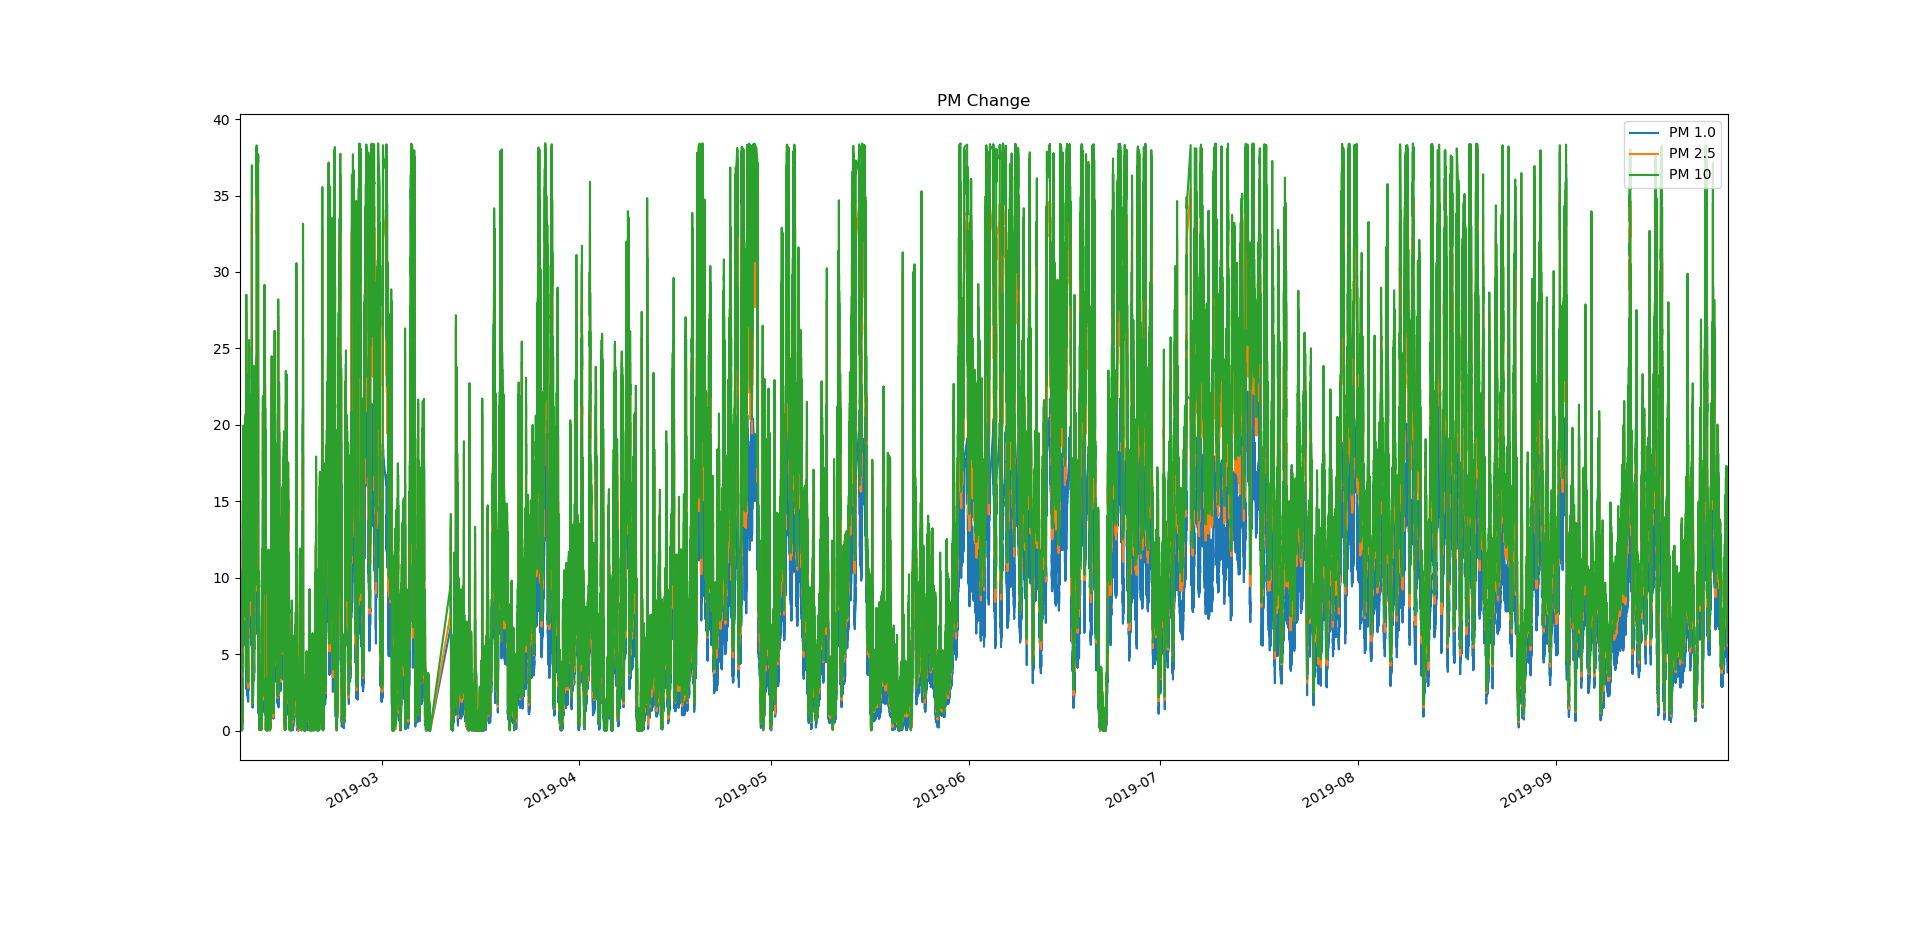
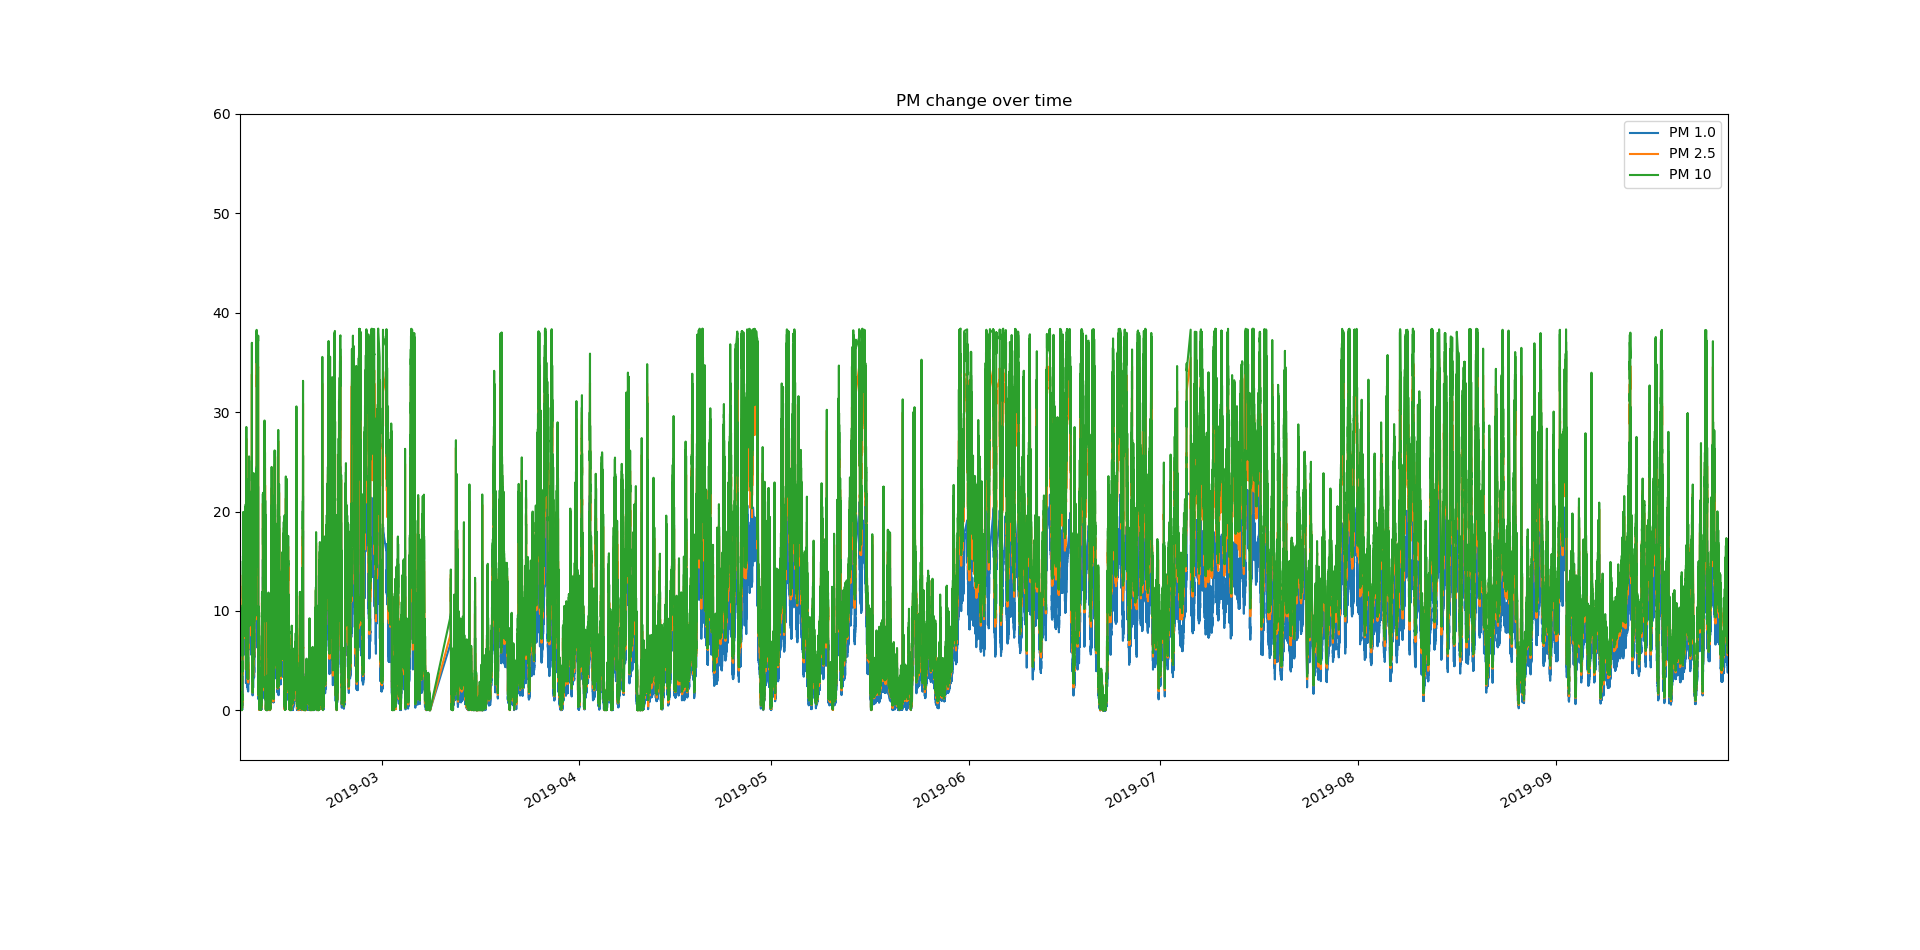
Started visualizations on healthy PM levels.

Changed region(s): [[0.0938, 0.1526, 0.9062, 0.7937], [0.4688, 0.0916, 0.5625, 0.1221], [0.5625, 0.7326, 0.5938, 0.7632]]

diff --git a/project1.py b/project1.py
@@ -41,75 +41,129 @@ df = remove_outlier(df,'PM1.0_CF_ATM_ug/m3')
 df = remove_outlier(df,'PM2.5_CF_ATM_ug/m3')
 df = remove_outlier(df,'PM10.0_CF_ATM_ug/m3')
 
-# Figure_1 PM 1.0, 2.5, and 10 rise
+# top and bottom of the limits for the PM change over time graphs
+ytop = 60
+ybot = -5
+# Healthy PM standards
+pmStandard1 = 35 # 24-hour PM 2.5
+pmStandard2 = 12 # Annual PM 2.5
+pmStandard3 = 150 # Annual PM 10.0
+
+# Figure_1 PM 1.0, 2.5, and 10 change over time
 ax1 = df.plot(kind = 'line', x = 'created_at', y = 'PM1.0_CF_ATM_ug/m3', label = "PM 1.0",
-             title = "PM Change")
+             title = "PM change over time")
 df.plot(kind = 'line', x = 'created_at', y = 'PM2.5_CF_ATM_ug/m3', label = "PM 2.5", ax = ax1)
 df.plot(kind = 'line', x = 'created_at', y = 'PM10.0_CF_ATM_ug/m3', label = "PM 10", ax = ax1)
 plt.xlabel("")
+plt.ylim(ybot,ytop)
 
-# Figure_2 PM 2.5 rise
-df.plot(kind = 'line', color = 'orange',x = 'created_at', y = 'PM2.5_CF_ATM_ug/m3', label = "PM 2.5",title = "PM 2.5 Change")
+# Figure_2 PM 1.0 change over time
+df.plot(kind = 'line', color = 'orange',x = 'created_at', y = 'PM1.0_CF_ATM_ug/m3', label = "PM 1.0", title = "PM 1.0 change over time")
 plt.xlabel("")
+plt.ylim(ybot,ytop)
 
-# Figure_3 Is there a correlation between temperature and PM?
+
+# Figure_3 PM 2.5 change over time
+df.plot(kind = 'line', color = 'orange',x = 'created_at', y = 'PM2.5_CF_ATM_ug/m3', label = "PM 2.5",title = "PM 2.5 change over time")
+plt.xlabel("")
+plt.axhline(y=pmStandard1, color='r', linestyle='dashed', label = str(pmStandard1) + " ug/m3")
+plt.axhline(y=pmStandard2, color='r', linestyle='solid', label = str(pmStandard2) + " ug/m3")
+plt.ylim(ybot,ytop)
+
+# Figure_4 PM 10.0 change over time
+df.plot(kind = 'line', color = 'orange',x = 'created_at', y = 'PM10.0_CF_ATM_ug/m3', label = "PM 10.0", title = "PM 10.0 change over time")
+plt.xlabel("")
+plt.axhline(y=pmStandard3, color='r', linestyle='dashed', label = "150 ug/m3")
+# as of September 2006, the EPA has stated that
+# "the annual PM10 standard was revoked because of a lack of evidence establishing a link between long-term exposure to coarse particles and health problems"
+# plt.axhline(y=50, color='r', linestyle='solid', label = "50 ug/m3") 
+plt.ylim(ybot,ytop)
+
+# Figure_5 Is there a correlation between temperature and PM?
 ax2 = df.plot(kind = 'line', x = 'created_at', y = 'PM10.0_CF_ATM_ug/m3', label = "PM 10",
              title = "Temperature and PM")
 df.plot(kind = 'line', x = 'created_at', y = 'Temperature_F', label = "Temperature (F)", ax = ax2)
 plt.xlabel("")
 
-# Figure_4 Is there a correlation between Humidity and PM?
+# Figure_6 Is there a correlation between Humidity and PM?
 ax3 = df.plot(kind = 'line', x = 'created_at', y = 'PM10.0_CF_ATM_ug/m3', label = "PM 10",
              title = "Humidity and PM")
 df.plot(kind = 'line', x = 'created_at', y = 'Humidity_%', label = "Humidity %", ax = ax3)
 plt.xlabel("")
 
-# Figure_5 Is there a correlation between temperature and humidity?
+# Figure_7 Is there a correlation between temperature and humidity?
 ax4 = df.plot(kind = 'line', x = 'created_at', y = 'Temperature_F', label = "Temperature",
              title = "Temperature and humidity")
 df.plot(kind = 'line', x = 'created_at', y = 'Humidity_%', label = "Humidity %", ax = ax4)
 plt.xlabel("")
 plt.figure()
 
-# Figure_6 median temperature of each month
+# Figure_8 median temperature of each month
 df_my = df.groupby(df['created_at'].dt.strftime('%m-%y'))['Temperature_F'].median()
 df_my.plot(kind = 'bar',  label = "Temperature", title = "Median temperature of each month")
 plt.xlabel('Date: mm-yy')
 plt.ylabel("Degrees Fahrenheit")
 plt.figure()
 
-# Figure_7 median temperature of each day
+# Figure_9 median temperature of each day
 df_my = df.groupby(df['created_at'].dt.strftime('%m/%d/%y'))['Temperature_F'].median()
 df_my.plot(kind = 'line',  label = "Temperature", title = "Median temperature of each day")
+plt.ylim(0,120)
 plt.xlabel("")
 plt.ylabel("Degrees Fahrenheit")
 plt.figure()
 
-# Figure_8 median humidity of each month
+# Figure_10 median humidity of each month
 df_my = df.groupby(df['created_at'].dt.strftime('%m-%y'))['Humidity_%'].median()
 df_my.plot(kind = 'bar',  label = "Temperature", title = "Median humididty % of each month")
 plt.xlabel('Date: mm-yy')
 plt.ylabel("Humidity %")
 plt.figure()
 
-# Figure_9 median humidity of each day
+# Figure_11 median humidity of each day
 df_my = df.groupby(df['created_at'].dt.strftime('%m/%d/%y'))['Humidity_%'].median()
 df_my.plot(kind = 'line',  label = "Temperature", title = "Median humidity % of each day")
+plt.ylim(0,100)
 plt.xlabel("")
 plt.ylabel("Humidity %")
 plt.figure()
 
-# Figure_10 median PM 2.5 of each month
+# Figure_12 median PM 2.5 of each month
 df_my = df.groupby(df['created_at'].dt.strftime('%m-%y'))['PM2.5_CF_ATM_ug/m3'].median()
 df_my.plot(kind = 'bar',  label = "PM2.5_CF_ATM_ug/m3", title = "Median PM 2.5 of each month")
 plt.xlabel('Date: mm-yy')
 plt.ylabel("PM 2.5")
+plt.axhline(y=pmStandard1, color='r', linestyle='dashed', label = "35 ug/m3")
+plt.axhline(y=pmStandard2, color='r', linestyle='solid', label = "12 ug/m3")
+plt.ylim(ybot,ytop)
 plt.figure()
 
-# Figure_11 median PM 2.5 of each day
+# Figure_13 median PM 2.5 of each day
 df_my = df.groupby(df['created_at'].dt.strftime('%m/%d/%y'))['PM2.5_CF_ATM_ug/m3'].median()
 df_my.plot(kind = 'line',  label = "PM2.5_CF_ATM_ug/m3", title = "Median PM 2.5 of each day")
 plt.xlabel("")
 plt.ylabel("PM 2.5")
+plt.axhline(y=pmStandard1, color='r', linestyle='dashed', label = str(pmStandard1) + " ug/m3")
+plt.axhline(y=pmStandard2, color='r', linestyle='solid', label = str(pmStandard2) + " ug/m3")
+plt.ylim(ybot,ytop)
+plt.figure()
+
+# Figure_14 median PM 10.0 of each month
+df_my = df.groupby(df['created_at'].dt.strftime('%m-%y'))['PM10.0_CF_ATM_ug/m3'].median()
+df_my.plot(kind = 'bar',  label = "PM10.0_CF_ATM_ug/m3", title = "Median PM 10.0 of each month")
+plt.xlabel('Date: mm-yy')
+plt.ylabel("PM 10.0")
+plt.axhline(y=pmStandard3, color='r', linestyle='dashed', label = "150 ug/m3")
+plt.ylim(ybot,ytop)
+plt.figure()
+
+# Figure_15 median PM 10.0 of each day
+df_my = df.groupby(df['created_at'].dt.strftime('%m/%d/%y'))['PM10.0_CF_ATM_ug/m3'].median()
+df_my.plot(kind = 'line',  label = "PM10.0_CF_ATM_ug/m3", title = "Median PM 10.0 of each day")
+plt.xlabel("")
+plt.ylabel("PM 10.0")
+plt.axhline(y=pmStandard3, color='r', linestyle='dashed', label = "150 ug/m3")
+plt.ylim(ybot,ytop)
+
 
 plt.show()
